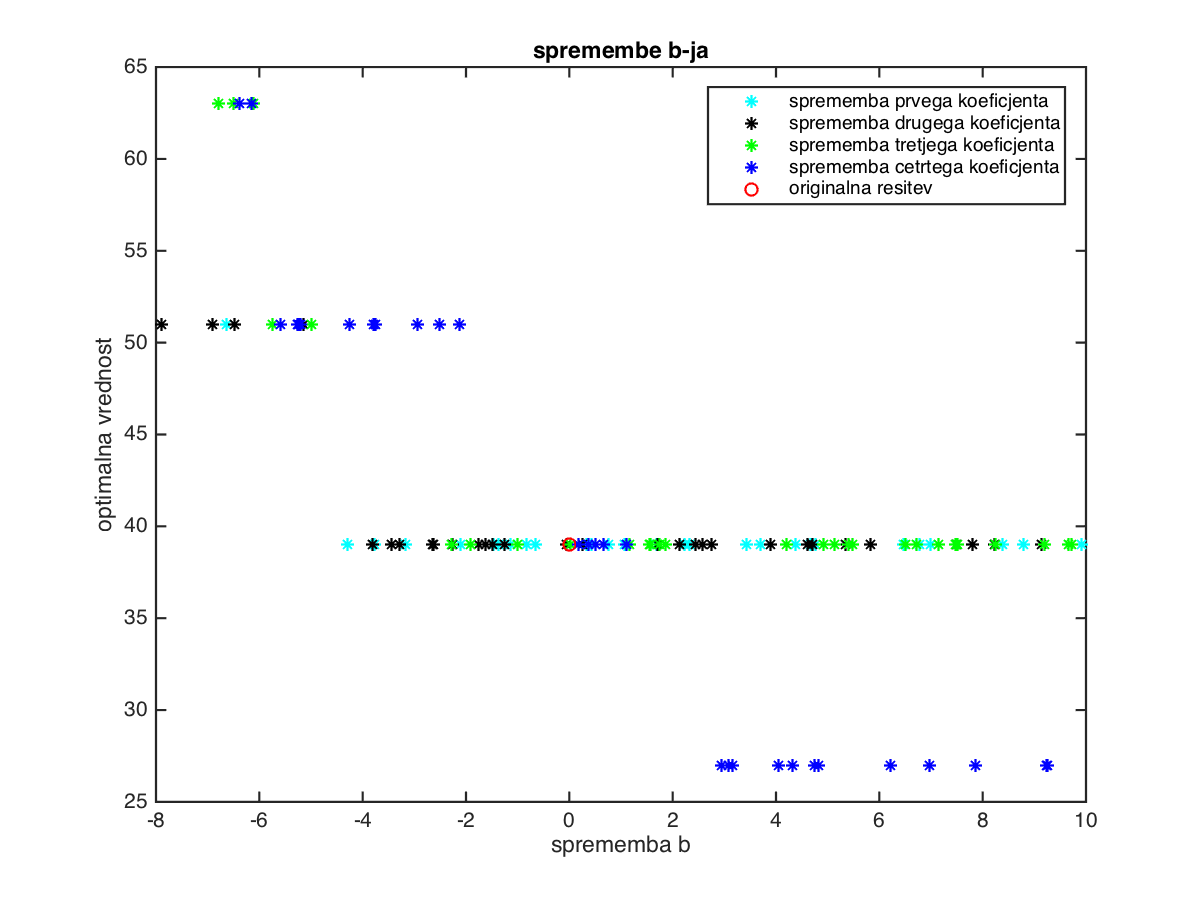
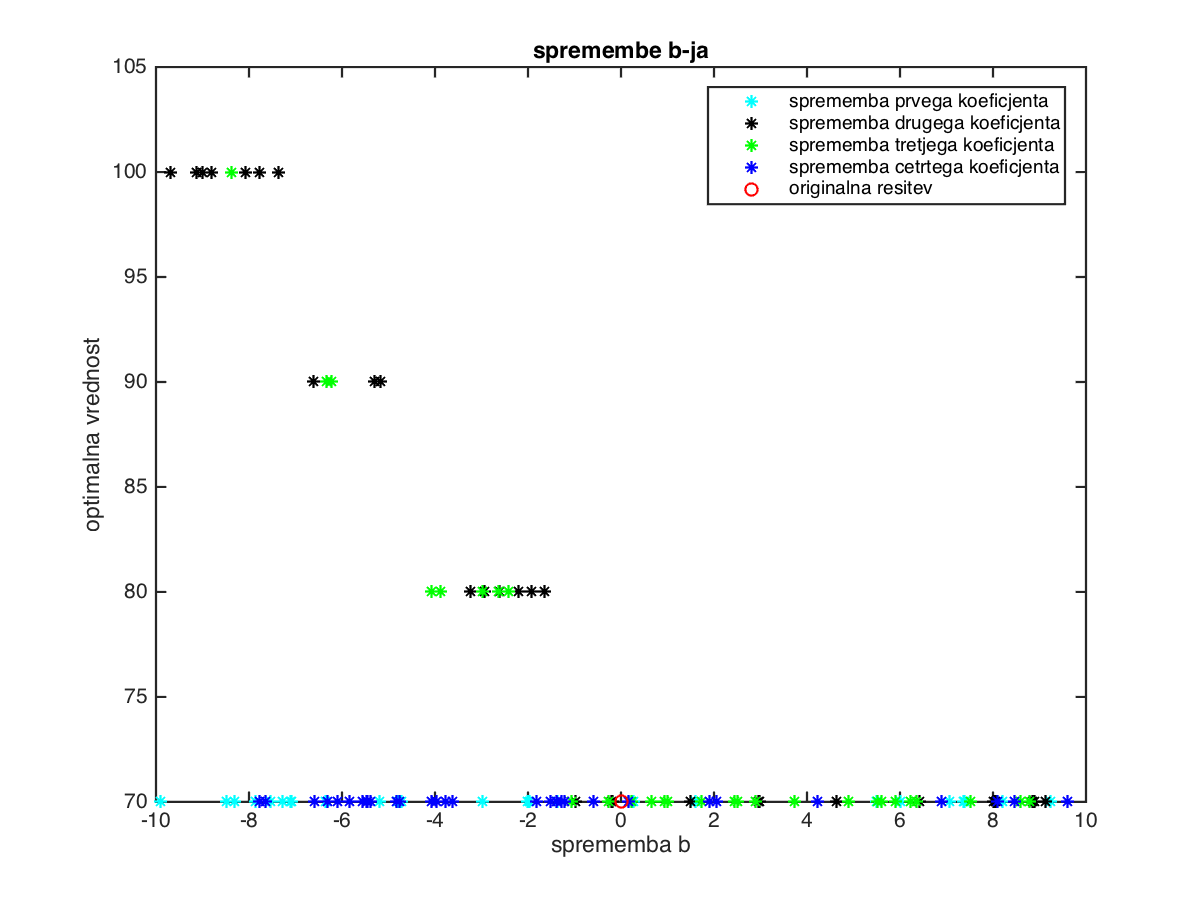
Malo sem preoblikoval
Napisal sem glavno skripto, ki preveri če ima problem rešitev in shrani
grafe.
Skripti Projekt_7_b in Projekt_7_f sem pretvoril v funkcije in jih
preimenoval v obcutljivost_f in obcutljivost_b.

diff --git a/obcutljivost_b.m b/obcutljivost_b.m
@@ -1,26 +1,18 @@
-% V tem delu bomo definirali osnovni problem, ki bo velikosti 4x4. Vektor x
-% bo imel stiri spremenljivke. Matrika A bo velikosti 4x4. Vektor b bo imel
-% 4 omejitve. Funkcija f pa bo vsebovala ?tiri koeficjente.
 
-set(0,'DefaultFigureVisible','off'); % Da se ne ska?ejo grafi ceu ?as
+function [figb,fig1b,fig2b,fig3b,fig4b] = obcutljivost_b(A,b,f,s,options)
 
-A=[1,-2,3,4;
-    2,-3,4,5;
-    1,-3,5,7;
-    2,-4,6,8];
-f=[6,12,3,6];
-b=[10,10,10,10];
+%dolo?imo spremenljivke, ki morajo biti celo?tevilske
 intcon=[1,2,3,4];
-options = optimoptions('intlinprog','TolFun',1e-6,'Display', 'off' );
 
+%Dolocimo prvo reisitev
 prva_resitev=intlinprog(f,intcon,A,b,[],[],[1,1,1,1],[inf,inf,inf,inf],options);
 
 % spreminjamo vrednosti omejitev
 for i = 1:4 
     j=1;
     o=b(i);
-    for n = 1:30 %naredimo 30 iteracij poskusa
-        db=-8+18*rand(); % random spremenljivka z intervala (-8,10)
+    for n = 1:s %naredimo 30 iteracij poskusa
+        db=-10+20*rand(); % random spremenljivka z intervala (-8,10)
         b(i)=b(i)+db;
         [x,fval,exitflag,output]=intlinprog(f,intcon,A,b,[],[],[1,1,1,1],[1000,1000,1000,1000],options);
         B(i,j)=fval;
@@ -41,13 +33,12 @@ B4_y=B(4,1:2:end);
 B4_x=B(4,2:2:end); 
 
 %Nari?emo vse spremembe skupaj
-b=figure;
+figb=figure;
 plot(B1_x,B1_y,'c*',B2_x,B2_y,'k*',B3_x,B3_y,'g*',B4_x,B4_y,'b*',[0],f*prva_resitev,'ro');
 title('spremembe b-ja');
 xlabel('sprememba b');
 ylabel('optimalna vrednost');
 legend('sprememba prvega koeficjenta','sprememba drugega koeficjenta','sprememba tretjega koeficjenta','sprememba cetrtega koeficjenta','originalna resitev');
-print(b,'spremembe_b','-dpng');
 hold off
 
 
@@ -64,7 +55,6 @@ title('Spremembe prvega koeficjenta omejitvenega vektorja');
 xlabel('sprememba koeficjenta');
 ylabel('optimalna vrednost');
 text(0,B1(0)+1,texlabel(B1)) % ena?ba funkcije koeficjenti so h1
-print(fig1b,'spremembe_b1','-dpng');
 hold off
 
 %Najdemo najbolj?e prilagajo?i graf za mno?ico to?k (B2_x,B2_y)
@@ -80,7 +70,6 @@ title('Spremembe drugega koeficjenta omejitvenega vektorja');
 xlabel('sprememba koeficjenta');
 ylabel('optimalna vrednost');
 text(0,B1(0)+1,texlabel(B2)) % ena?ba funkcije koeficjenti so h2
-print(fig2b,'spremembe_b2','-dpng');
 hold off
 
 %Najdemo najbolj?e prilagajo?i graf za mno?ico to?k (B3_x,B3_y)
@@ -96,7 +85,6 @@ title('Spremembe tretjega koeficjenta omejitvenega vektorja');
 xlabel('sprememba koeficjenta');
 ylabel('optimalna vrednost');
 text(0,B3(0)+1,texlabel(B3)) % ena?ba funkcije koeficjenti so h3
-print(fig3b,'spremembe_b3','-dpng');
 hold off
 
 %Najdemo najbolj?e prilagajo?i graf za mno?ico to?k (B4_x,B4_y)
@@ -112,5 +100,5 @@ title('Spremembe cetrtega koeficjenta omejitvenega vektorja');
 xlabel('sprememba koeficjenta');
 ylabel('optimalna vrednost');
 text(0,B4(0)+1,texlabel(B4)) % ena?ba funkcije koeficjenti so h4
-print(fig4b,'spremembe_b4','-dpng');
 hold off
+end

diff --git a/obcutljivost_f.m b/obcutljivost_f.m
@@ -1,26 +1,17 @@
-% V tem delu bomo definirali osnovni problem, ki bo velikosti 4x4. Vektor x
-% bo imel stiri spremenljivke. Matrika A bo velikosti 4x4. Vektor b bo imel
-% 4 omejitve. Funkcija f pa bo vsebovala ?tiri koeficjente.
+function [fig,fig1,fig2,fig3,fig4] = obcutljivost_f(A,b,f,s,options)
 
-set(0,'DefaultFigureVisible','off'); % Da se ne ska?ejo grafi ceu ?as
-
-A=[1,-2,3,4;
-    2,-3,4,5;
-    1,-3,5,7;
-    2,-4,6,8];
-f=[6,12,3,6];
-b=[10,10,10,10];
+%dolo?imo spremenljivke, ki morajo biti celo?tevilske
 intcon=[1,2,3,4];
-options = optimoptions('intlinprog','TolFun',1e-6,'Display', 'off' );
 
+%Dolocimo prvo reisitev
 prva_resitev=intlinprog(f,intcon,A,b,[],[],[1,1,1,1],[inf,inf,inf,inf],options);
 
 % Spreminjamo vrednosti namenske funkcije
 for i = 1:4 
     j=1;
     o=f(i);
-    for n = 1:30 %naredimo 20 iteracij poskusa
-        df=-8+18*rand(); % random spremenljivka z intervala (-8,10)
+    for n = 1:s %naredimo s iteracij poskusa
+        df=-10+20*rand(); % random spremenljivka z intervala (-10,10)
         f(i)=f(i)+df;
         [x,fval,exitflag,output]=intlinprog(f,intcon,A,b,[],[],[1,1,1,1],[1000,1000,1000,1000],options);
         F(i,j)=fval;
@@ -47,7 +38,6 @@ title('Spremembe f-a');
 xlabel('sprememba f');
 ylabel('optimalna vrednost');
 legend('sprememba prvega koeficjenta','sprememba drugega koeficjenta','sprememba tretjega koeficjenta','sprememba cetrtega koeficjenta','originalna resitev');
-print(fig,'spremembe_f','-dpng');
 hold off
 
 %Najdemo najbolj?e prilagajo?i polinom druge stopnje za mno?ico to?k (F1_x,F1_y)
@@ -63,7 +53,6 @@ title('Spremembe prvega koeficjenta namenske funkcije');
 xlabel('sprememba koeficjenta');
 ylabel('optimalna vrednost');
 text(0,f1(0)-1,texlabel(f1)) % ena?ba funkcije koeficjenti so k1
-print(fig1,'spremembe_f1','-dpng');
 hold off
 
 %Najdemo najbolj?e prilagajo?i polinom druge stopnje za mno?ico to?k (F2_x,F2_y)
@@ -79,7 +68,6 @@ title('Spremembe drugega koeficjenta namenske funkcije');
 xlabel('sprememba koeficjenta');
 ylabel('optimalna vrednost');
 text(0,f1(0)-1,texlabel(f2)) % ena?ba funkcije koeficjenti so k2
-print(fig2,'spremembe_f2','-dpng');
 hold off
 
 %Najdemo najbolj?e prilagajo?i polinom druge stopnje za mno?ico to?k (F3_x,F3_y)
@@ -95,7 +83,6 @@ title('Spremembe tretjega koeficjenta namenske funkcije');
 xlabel('sprememba koeficjenta');
 ylabel('optimalna vrednost');
 text(0,f3(0)-1,texlabel(f3)) % ena?ba funkcije koeficjenti so k3
-print(fig3,'spremembe_f3','-dpng');
 hold off
 
 %Najdemo najbolj?e prilagajo?i polinom druge stopnje za mno?ico to?k (F4_x,F4_y)
@@ -111,9 +98,8 @@ title('Spremembe cetrtega koeficjenta namenske funkcije');
 xlabel('sprememba koeficjenta');
 ylabel('optimalna vrednost');
 text(0,f4(0)-1,texlabel(f4)) % ena?ba funkcije koeficjenti so k4
-print(fig4,'spremembe_f4','-dpng');
 hold off
 
-
+end
 
 

diff --git a/glavni_del.m b/glavni_del.m
@@ -1,0 +1,48 @@
+%Da bi ta skripta delovala sta potrebni funkciji obcutljivost_f in
+%obcutljivost_b.
+
+% Zapi?emo koeficjente celo?tevilskega linearnega problema, ki ga ho?emo
+% opazovati.
+
+A=[1,-2,3,4;    %Matrika koeficjentov
+    9,-3,4,5;
+    1,-3,5,7;
+    2,-4,-5,13]; 
+f=[10,10,10,10];   %Vektor namenskih koeficjentov
+b=[10,7,3,4];  %Vektor omejitvenih vrednosti
+
+set(0,'DefaultFigureVisible','off'); % Da se ne ska?ejo grafi ceu ?as
+
+
+options = optimoptions('intlinprog','TolFun',1e-6,'Display', 'off' );
+
+% Preverimo ?e ima problem resitev
+intcon=[1,2,3,4];
+prva_resitev=intlinprog(f,intcon,A,b,[],[],[1,1,1,1],[inf,inf,inf,inf],options);
+if size(prva_resitev) == [0,0] 
+    disp('Problem nima resitve!')
+    return
+else
+    disp('Problem ima resitev!')
+end
+
+%Generiramo podatke in shranimo grafe
+
+s=30; %Dolocimo stevilo iteracij
+
+[fig,fig1,fig2,fig3,fig4]=obcutljivost_f(A,b,f,s,options);
+print(fig,'spremembe_f','-dpng');
+print(fig1,'spremembe_f1','-dpng');
+print(fig2,'spremembe_f2','-dpng');
+print(fig3,'spremembe_f3','-dpng');
+print(fig4,'spremembe_f4','-dpng');
+
+
+[figb,fig1b,fig2b,fig3b,fig4b] = obcutljivost_b(A,b,f,s,options);
+print(figb,'spremembe_b','-dpng');
+print(fig1b,'spremembe_b1','-dpng');
+print(fig2b,'spremembe_b2','-dpng');
+print(fig3b,'spremembe_b3','-dpng');
+print(fig4b,'spremembe_b4','-dpng');
+
+

diff --git a/README.md b/README.md
@@ -1,1 +1,1 @@
-# obcutljivost-CLP
+# Ob\UTF{010D}utljivost celo\UTF{0161}tevilskega linearnega programa
